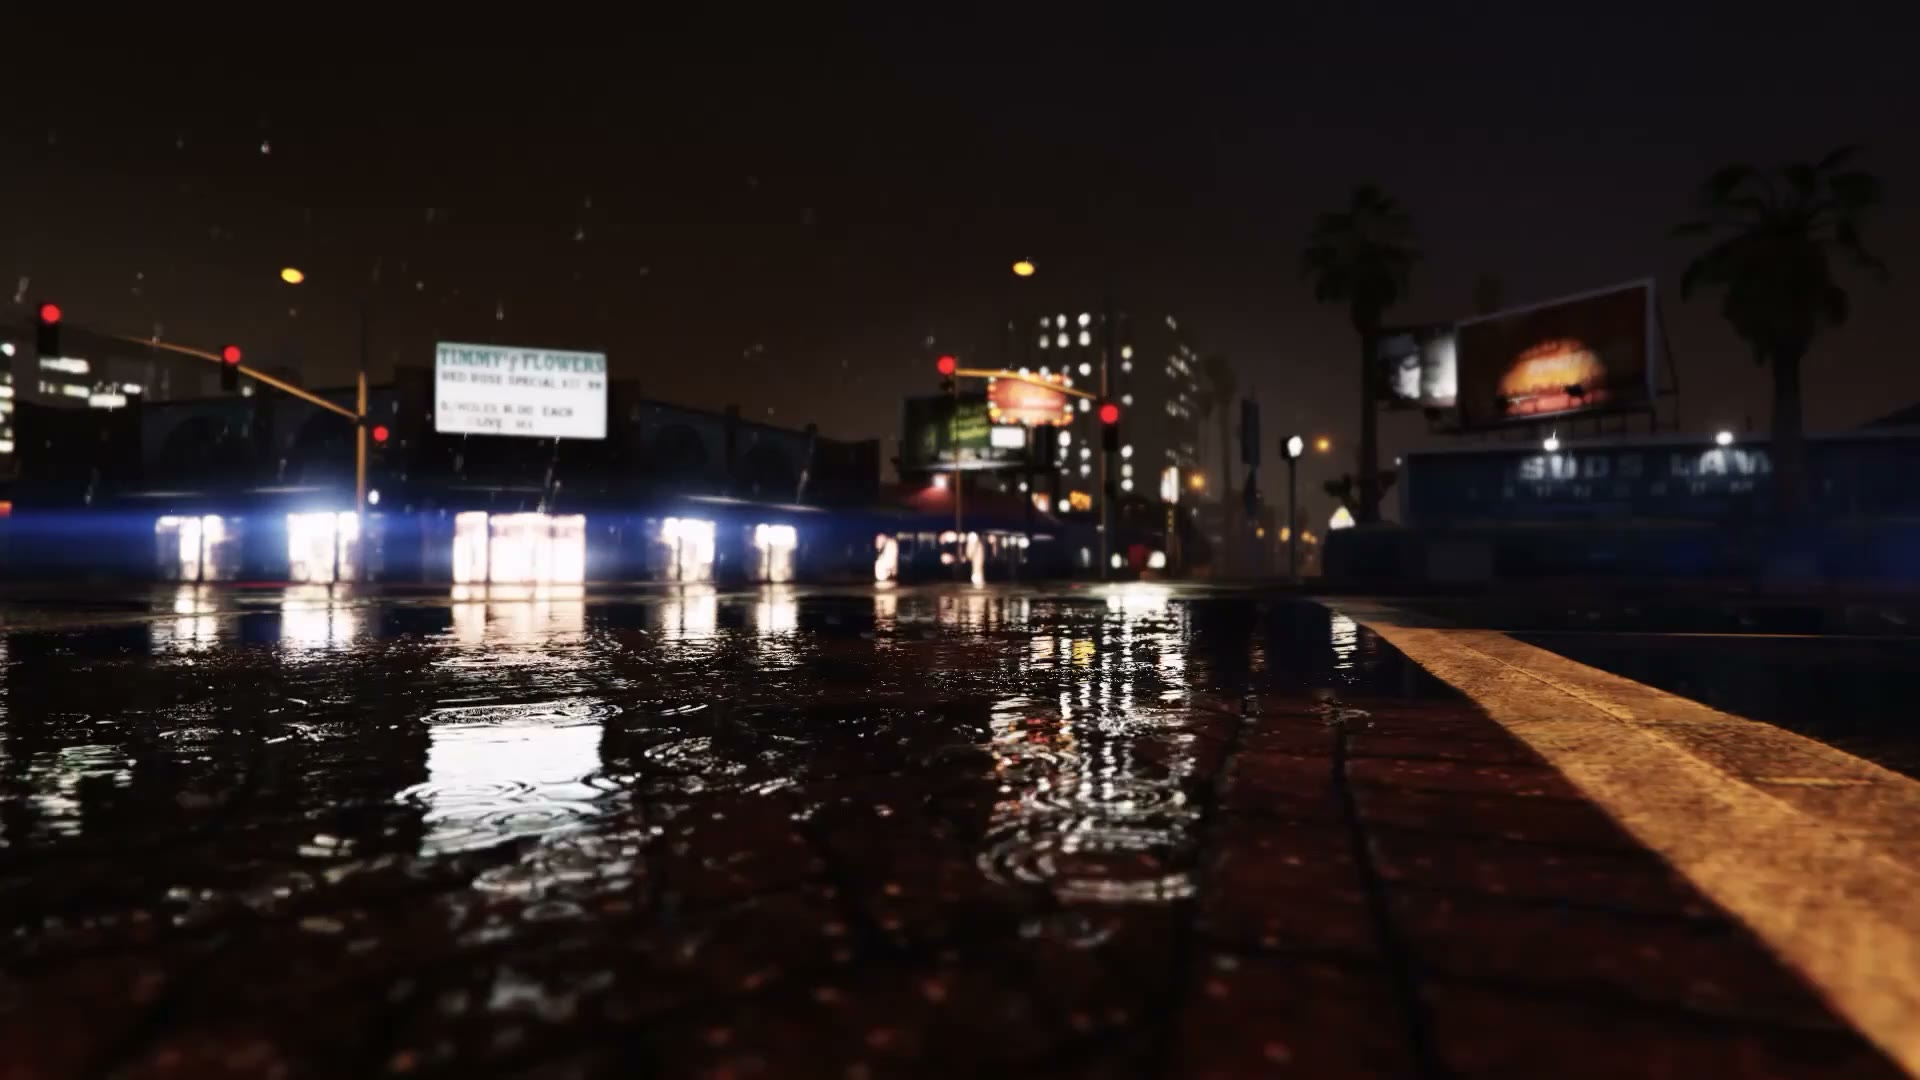
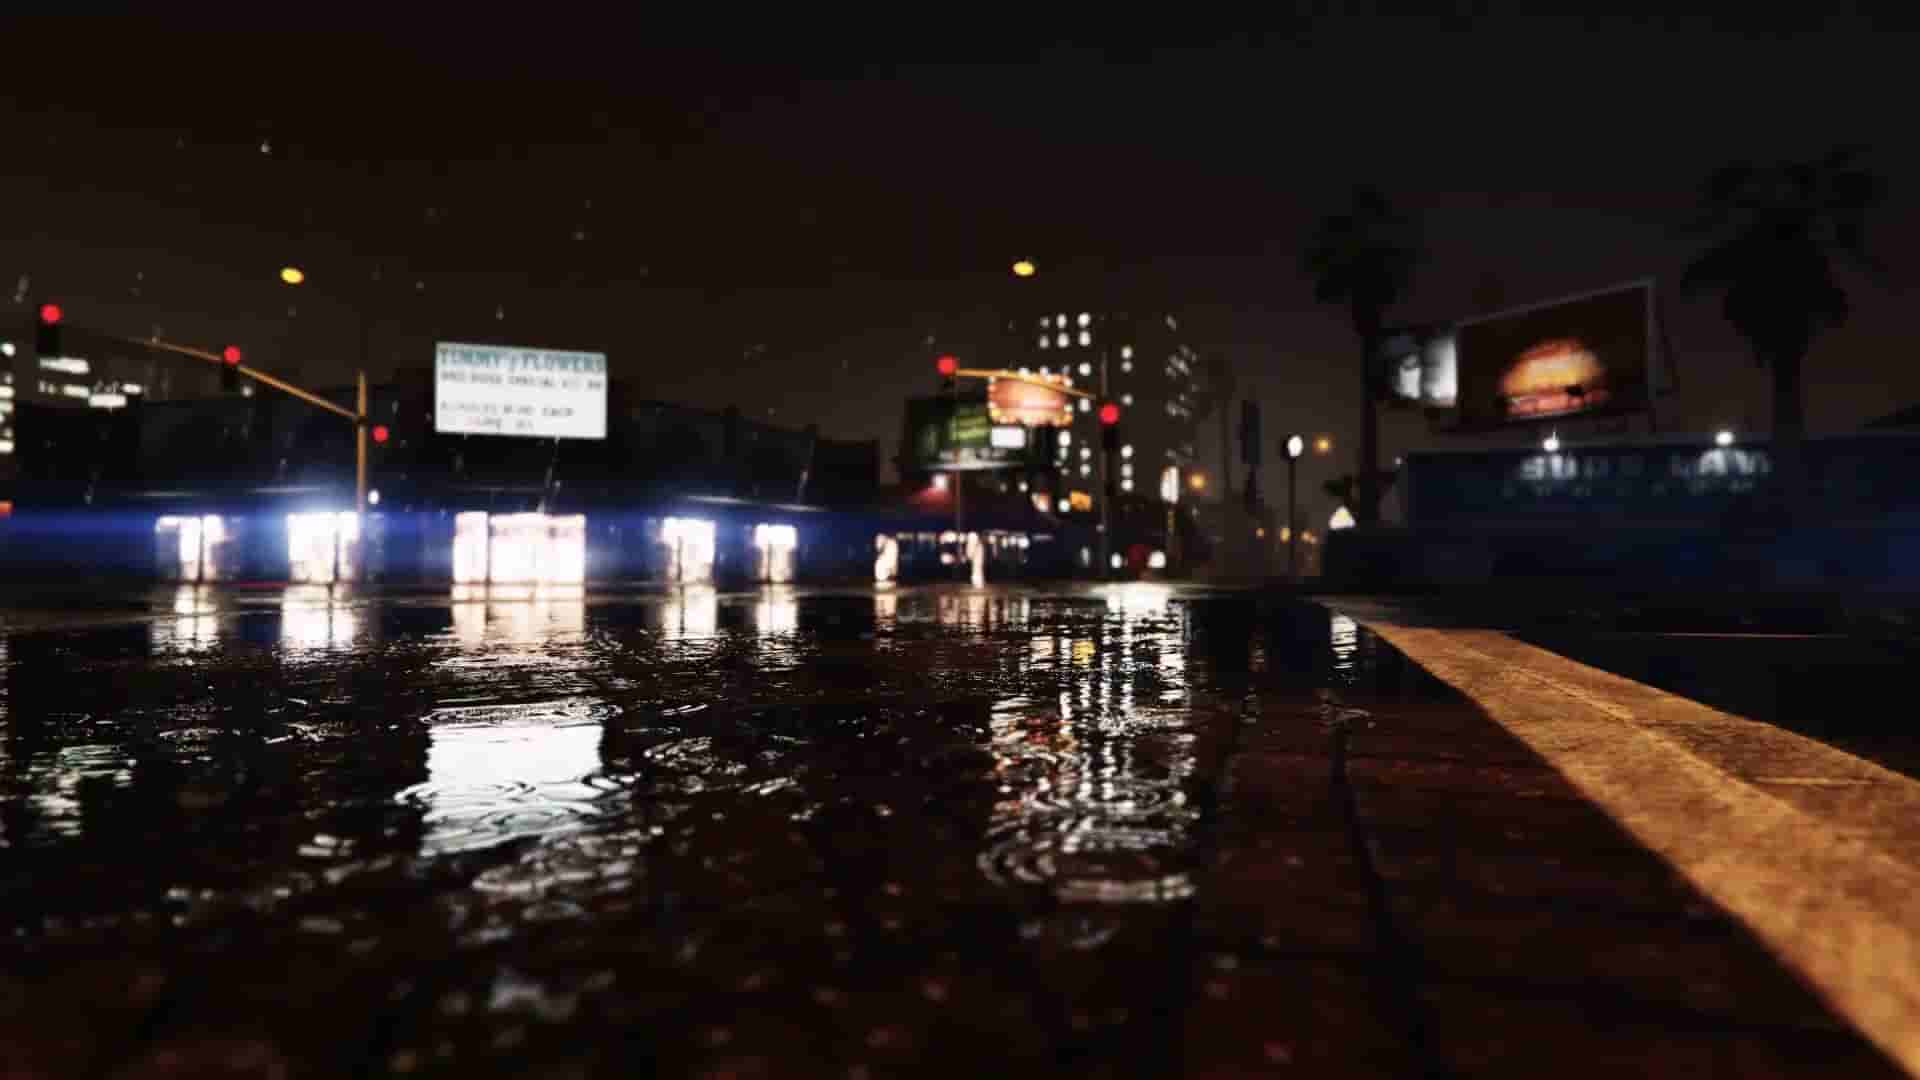
perf: 压缩静态图并延迟加载视频/音频

diff --git a/res/js/index.js b/res/js/index.js
@@ -73,8 +73,14 @@ if (rainAudio && rainAudioToggle) {
       playRain();
     }).catch(() => {});
   };
-  if (document.readyState === 'complete') tryAutoplay();
-  else window.addEventListener('load', tryAutoplay, { once: true });
+  // 延迟到 load 后的空闲时段再尝试自动播放，优先加载其它资源
+  const tryAutoplayLater = () => {
+    const run = () => { if (!interacted) tryAutoplay(); };
+    if ('requestIdleCallback' in window) window.requestIdleCallback(run, { timeout: 3000 });
+    else window.setTimeout(run, 3000);
+  };
+  if (document.readyState === 'complete') tryAutoplayLater();
+  else window.addEventListener('load', tryAutoplayLater, { once: true });
 }
 
 const rainBackground = document.querySelector('#rain-background');
@@ -102,7 +108,13 @@ if (rainBackground) {
     rainBackground.classList.remove('is-playing');
   });
   document.addEventListener('visibilitychange', updateBackground);
-  updateBackground();
+  // 延迟到 load 后的空闲时段再加载视频，优先加载其它资源
+  const startBackgroundLater = () => {
+    if ('requestIdleCallback' in window) window.requestIdleCallback(updateBackground, { timeout: 3000 });
+    else window.setTimeout(updateBackground, 3000);
+  };
+  if (document.readyState === 'complete') startBackgroundLater();
+  else window.addEventListener('load', startBackgroundLater, { once: true });
 }
 
 // 页面状态（内存中即可）

diff --git a/index.html b/index.html
@@ -17,8 +17,8 @@
 
 <body class="dark-mode">
     <div class="background-fallback" aria-hidden="true"></div>
-    <video id="rain-background" muted playsinline loop preload="auto" aria-hidden="true" tabindex="-1"></video>
-    <audio id="rain-audio" loop preload="auto" src="res/audio/rain.mp3"></audio>
+   <video id="rain-background" muted playsinline loop preload="none" aria-hidden="true" tabindex="-1"></video>
+   <audio id="rain-audio" loop preload="none" src="res/audio/rain.mp3"></audio>
 
     <div class="slide-stage" id="slide-stage" data-view="home">
     <main class="content-container page" id="main-page" tabindex="-1">

diff --git a/AGENTS.md b/AGENTS.md
@@ -61,9 +61,9 @@ npx --yes serve .
 
 ### 雨景背景与排查
 
-首页的 `#rain-background` 默认静音、循环、内联播放，由 `res/js/index.js` 设置视频地址并调用 `play()`；只有收到 `playing` 事件才显示视频。播放失败或页面隐藏时显示 `res/img/rain.jpg`，图片不可用时使用渐变兜底；页面隐藏时暂停。`sw.js` 跳过 `rain.mp4` 和 `rain.mp3`，离线时不能依赖其播放。
+首页的 `#rain-background` 默认静音、循环、内联播放，`preload="none"`；`res/js/index.js` 在页面 load 后的空闲时段再设置视频地址并调用 `play()`，优先加载其它资源。只有收到 `playing` 事件才显示视频。播放失败或页面隐藏时显示 `res/img/rain.jpg`，图片不可用时使用渐变兜底；页面隐藏时暂停。`sw.js` 跳过 `rain.mp4` 和 `rain.mp3`，离线时不能依赖其播放。
 
-雨声是独立于静音视频的 `res/audio/rain.mp3`：音频元素使用 `preload="auto"` 提示浏览器预加载，但不保证立即下载或播放；页面加载完成后尝试自动播放，可能被浏览器策略阻止；首页导航按钮可播放或静音，状态通过 `aria-label` 和 `aria-pressed` 表示。支持 Web Audio 时解码后使用循环 BufferSource，不支持时回退到循环音频元素；加载或播放失败会恢复按钮状态。音频不会随页面隐藏或切换面板自动暂停。
+雨声是独立于静音视频的 `res/audio/rain.mp3`：音频元素使用 `preload="none"`，页面 load 后空闲时段再尝试自动播放（可能被浏览器策略阻止），不占用初始加载；首页导航按钮可播放或静音，状态通过 `aria-label` 和 `aria-pressed` 表示。支持 Web Audio 时解码后使用循环 BufferSource，不支持时回退到循环音频元素；加载或播放失败会恢复按钮状态。音频不会随页面隐藏或切换面板自动暂停。
 
 **排查背景不显示：** 请求成功不代表视频已解码或开始播放；`play()` 的错误目前被静默处理。检查浏览器自动播放策略、编码、页面隐藏和旧 Service Worker 缓存。
 
@@ -279,7 +279,7 @@ npx --yes serve .
 - [x] **P5 slug 唯一性校验**：新建时校验重名，编辑时排除自身。
 - [x] **P6 搜索图标 `target="_blank"` 补 `rel="noopener noreferrer"`**（index.html 三个 `<a>`）。
 - [x] **P7 详情页 vendor 脚本加 `defer`**：`post.html` 的 marked/purify 不阻塞 HTML 解析。
-- [ ] **P8 背景媒体降开销**：`rain.mp4`/`rain.mp3` 改 `preload="metadata"` 或延迟加载，评估压缩/降码率。
+- [x] **P8 背景媒体降开销**：静态图压缩，视频/音频延迟到空闲时段加载；`rain.mp4`/`rain.mp3` 压缩/降码率仍为待评估项。
 - [ ] **P9 SW 预缓存 `post.html` 壳页面**：解除注释并纳入 `STATIC_ASSETS`。
 - [ ] **P10 SW 动态缓存**：只缓存成功响应、设容量上限或版本清理；API 评估 stale-while-revalidate。
 - [ ] **P11 排序容错**：`created_at` 缺失/非法时的兜底排序。
